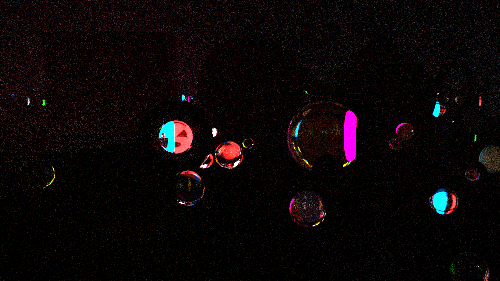
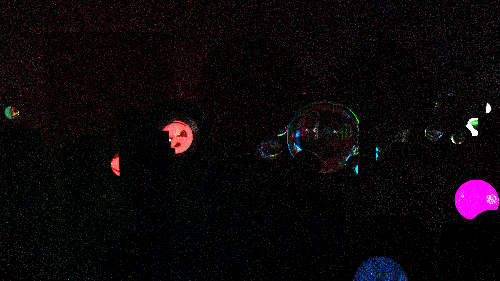
rgb_flags/histogram/autoexposure

diff --git a/color_processing.hpp b/color_processing.hpp
@@ -6,57 +6,96 @@
 #include <algorithm>
 #include <cmath>
 
+struct image_statistics {
+	float average_luminance = 0.0f;
+	float max_luminance = 0.0f;
+	int histogram[256] = { 0 }; //256 bins for luminance distribution
+};
+
+enum class debug_mode {
+	NONE,
+	RED,
+	GREEN,
+	BLUE,
+	LUMINANCE
+};
+
 class post_processor {
 public:
-	float exposure = 1.0f;
+	mutable float exposure = 1.0f;
 	float saturation = 1.0f;
 	float contrast = 1.0f;
 	float hue_shift = 0.0f; //in degrees [-180, 180]
 	float vignette_intensity = 1.0f;
 	vec3 color_balance = vec3(1.0f, 1.0f, 1.0f); //RGB tint
 	float z_depth_max_dist = 1.0f; //for depth buffer normalization
+
 	bool use_aces_tone_mapping = true;
+	bool use_auto_exposure = false;
+	float target_luminance = 0.18f; //aimed value for auto exposure
+	debug_mode current_debug_mode = debug_mode::NONE;
 
 	color process(color raw_color, float u = 0.5f, float v = 0.5f) const {
-		//exposure (double/HDR)
+		//1. exposure (double/HDR)
 		color c = raw_color * static_cast<double>(exposure);
 		//tone mapping apply_aces (0-1 range)
 		if (use_aces_tone_mapping) {
 			c = apply_aces(c);
 		}
 		//clamping before color operations 
+		//
 		//prevent from weird values like 1.5, -1 for constrast,hsv 
 		c = color(
 			std::clamp(static_cast<float>(c.x()), 0.0f, 1.0f),
 			std::clamp(static_cast<float>(c.y()), 0.0f, 1.0f),
 			std::clamp(static_cast<float>(c.z()), 0.0f, 1.0f)
 		);
-
-		//contrast (0-1 range)
+		//1.5 flags debug modes RGB/Luminance
+		if (current_debug_mode != debug_mode::NONE) {
+			double r = c.x();
+			double g = c.y();
+			double b = c.z();
+			switch (current_debug_mode) {
+			case debug_mode::RED:  {
+				c = color(r, 0.0, 0.0);
+				break;
+			}
+			case debug_mode::GREEN: {
+				c = color(0.0, g, 0.0);
+				break;
+			}
+			case debug_mode::BLUE: {
+				c = color(0.0, 0.0, b);
+				break;
+			}
+			case debug_mode::LUMINANCE: {
+				double lum = c.luminance();
+				c = color(lum, lum, lum);
+				break;
+			}
+			default:
+				break;
+			}
+		}
+		//2. contrast (0-1 range)
 		if (std::abs(contrast - 1.0f) > 0.001f) {
 			c = apply_contrast(c, contrast);
 		}
-
-		//HSV operations
+		//3. HSV operations
 		vec3 hsv = rgb_to_hsv(c);
-
-		//hue shift and saturation
+		//4. hue shift and saturation
 		hsv[0] = std::fmod(hsv[0] + hue_shift, 360.0f); //hue shift
 		if (hsv[0] < 0) {
 			hsv[0] += 360.0f;
 		}
 		hsv[1] = std::clamp(static_cast<float>(hsv[1] * saturation), 0.0f, 1.0f); //saturation
-		
 		c = hsv_to_rgb(hsv);
-
-		//color balance
+		//5. color balance
 		c = color(
 			c.x() * color_balance.x(),
 			c.y() * color_balance.y(),
-			c.z() * color_balance.z()
-		);
-
-		//vignette effect
+			c.z() * color_balance.z());
+		//6. vignette effect
 		if (vignette_intensity > 0.0f) {
 			float dist = std::sqrt((u - 0.5f) * (u - 0.5f) + (v - 0.5f) * (v - 0.5f));
 			float vig = std::clamp(1.0f - dist * vignette_intensity, 0.0f, 1.0f);
@@ -66,6 +105,33 @@ public:
 		return linear_to_gamma(c);
 	}
 
+	//function to analyze framebuffer and compute image statistics
+	image_statistics analyze_framebuffer(const std::vector<color>& framebuffer) const {
+		image_statistics stats;
+		double total_lum = 0.0;
+
+		for (const auto& pix : framebuffer) {
+			float lum = static_cast<float>(pix.luminance());
+			if (lum > stats.max_luminance) {
+				stats.max_luminance = lum;
+			}
+			total_lum += lum;
+			//histogram: map luminance to 0-255 range (brightness 0.0-1.0)
+			int bin = std::clamp(static_cast<int>(lum * 255.0f), 0, 255);
+			stats.histogram[bin]++;
+		}
+
+		stats.average_luminance = static_cast<float>(total_lum / framebuffer.size());
+		return stats;
+	}
+
+	void apply_auto_exposure(const image_statistics& stats) const {
+		if (use_auto_exposure && stats.average_luminance > 0.001f) {
+			exposure = target_luminance / stats.average_luminance;
+		}
+		//clamp exposure to avoid over/under exposure
+		exposure = std::clamp(exposure, 0.1f, 10.0f);
+	}
 
 private:
 	color apply_contrast(color c, float contrast) const {

diff --git a/camera.hpp b/camera.hpp
@@ -70,6 +70,17 @@ public:
 
 		execute_render_threads(world, env, framebuffer, albedo_buffer, normal_buffer, z_depth_buffer, reflection_buffer, refraction_buffer, post.z_depth_max_dist);
 
+		// - 2.5 AUTO-EXPOSURE -
+		if (post.use_auto_exposure) {
+			image_statistics stats = post.analyze_framebuffer(framebuffer);
+			std::cerr << "\n[Auto-Exposure] Average Luminance: " << stats.average_luminance << "\n";
+
+			post.apply_auto_exposure(stats);
+			std::cerr << "[Auto-Exposure] New Exposure Value: " << post.exposure << "\n";
+		} else {
+			std::cerr << "\n[Exposure] Manual mode active. Value: " << post.exposure << "\n";
+		}
+
 		// - 3. SAVE RAW RENDER RGB
 		process_framebuffer_to_image(framebuffer, "image_RGB_raw.png", post, false);
 
@@ -79,8 +90,7 @@ public:
 
 			//save with denoiser only if use_denoiser == true
 			process_framebuffer_to_image(framebuffer, "image_RGB_denoised.png", post, false);
-		}
-		else {
+		} else {
 			std::cerr << "\nDenoising is DISABLED. Skipping..." << std::endl;
 		}
 

diff --git a/main.cpp b/main.cpp
@@ -78,6 +78,9 @@ int main() {
 	//b. z-depth settings
 	my_post.z_depth_max_dist = 3.0;
 
+	my_post.use_auto_exposure = true;
+	my_post.current_debug_mode = debug_mode::NONE;
+
 	// - 7. RENDER
 	cam.render(bvh_world, env, my_post);
 
